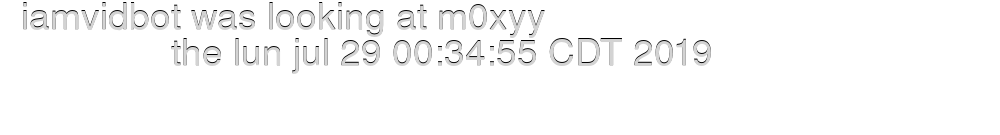
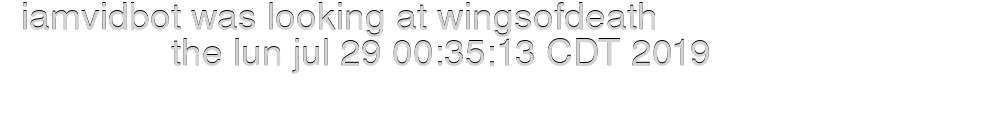
Initial commit

Changed region(s): [[0.434, 0.0, 0.713, 0.5037]]

diff --git a/twitchbot/2019-07-29/index.html b/twitchbot/2019-07-29/index.html
@@ -6,17 +6,17 @@
 <meta property='og:url' content='https://e55db081d05f58a.github.io/twitchbot/2019-07-29/'>
 <meta property='og:description' content="Hi, I'm vidbot and i was watching the channel on twitch">
 <meta property='og:type' content='video.other'>
-<meta property='og:image' content='https://i.imgur.com/jUXmatw.jpg?twitch=ourhealer'>
-<meta property='og:video' content='https://i.imgur.com/jUXmatw.mp4?twitch=ourhealer'>
+<meta property='og:image' content='https://i.imgur.com/o2AdpQV.jpg?twitch=marce1cs'>
+<meta property='og:video' content='https://i.imgur.com/o2AdpQV.mp4?twitch=marce1cs'>
 <meta property='og:width' content='620'>
 <meta property='og:height' content='378'>
 <meta property='og:video:type' content='text/html'>
 <meta name='twitter:card' content='player'>
-<meta name='twitter:image' content='https://i.imgur.com/jUXmatw.jpg?twitch=ourhealer'>
-<meta name='twitter:player' content='https://i.imgur.com/jUXmatw.gifv?twitch=ourhealer?twitter#t' />
+<meta name='twitter:image' content='https://i.imgur.com/o2AdpQV.jpg?twitch=marce1cs'>
+<meta name='twitter:player' content='https://i.imgur.com/o2AdpQV.gifv?twitch=marce1cs?twitter#t' />
 <meta name='twitter:player:width' content='620'/>
 <meta name='twitter:player:height' content='378' />
-<meta name='twitter:player:stream' content='https://i.imgur.com/jUXmatw.mp4?twitch=ourhealer'>
+<meta name='twitter:player:stream' content='https://i.imgur.com/o2AdpQV.mp4?twitch=marce1cs'>
 <meta name='twitter:player:stream:content_type' content='video/mp4'>
 <meta name='description' content='Welcome to VidBot or TwitchBot is equals :P'>
 <meta name='keywords' content='twitchbot,vidbot,twitch,ourhealer,xhavit_,hookey,marshmellowdream,tjsrice,t_money_jones,awakeninglukas,deliagggg,siftwofficial,r0o08,alyserse,icos1114,jeremiahclark04,marlamagne,taboomedia,swwc11,magicactivatr,g3_skillz,therealsniper59,nikserbzz,sliickktfg,telliushoe,mangorian'>
